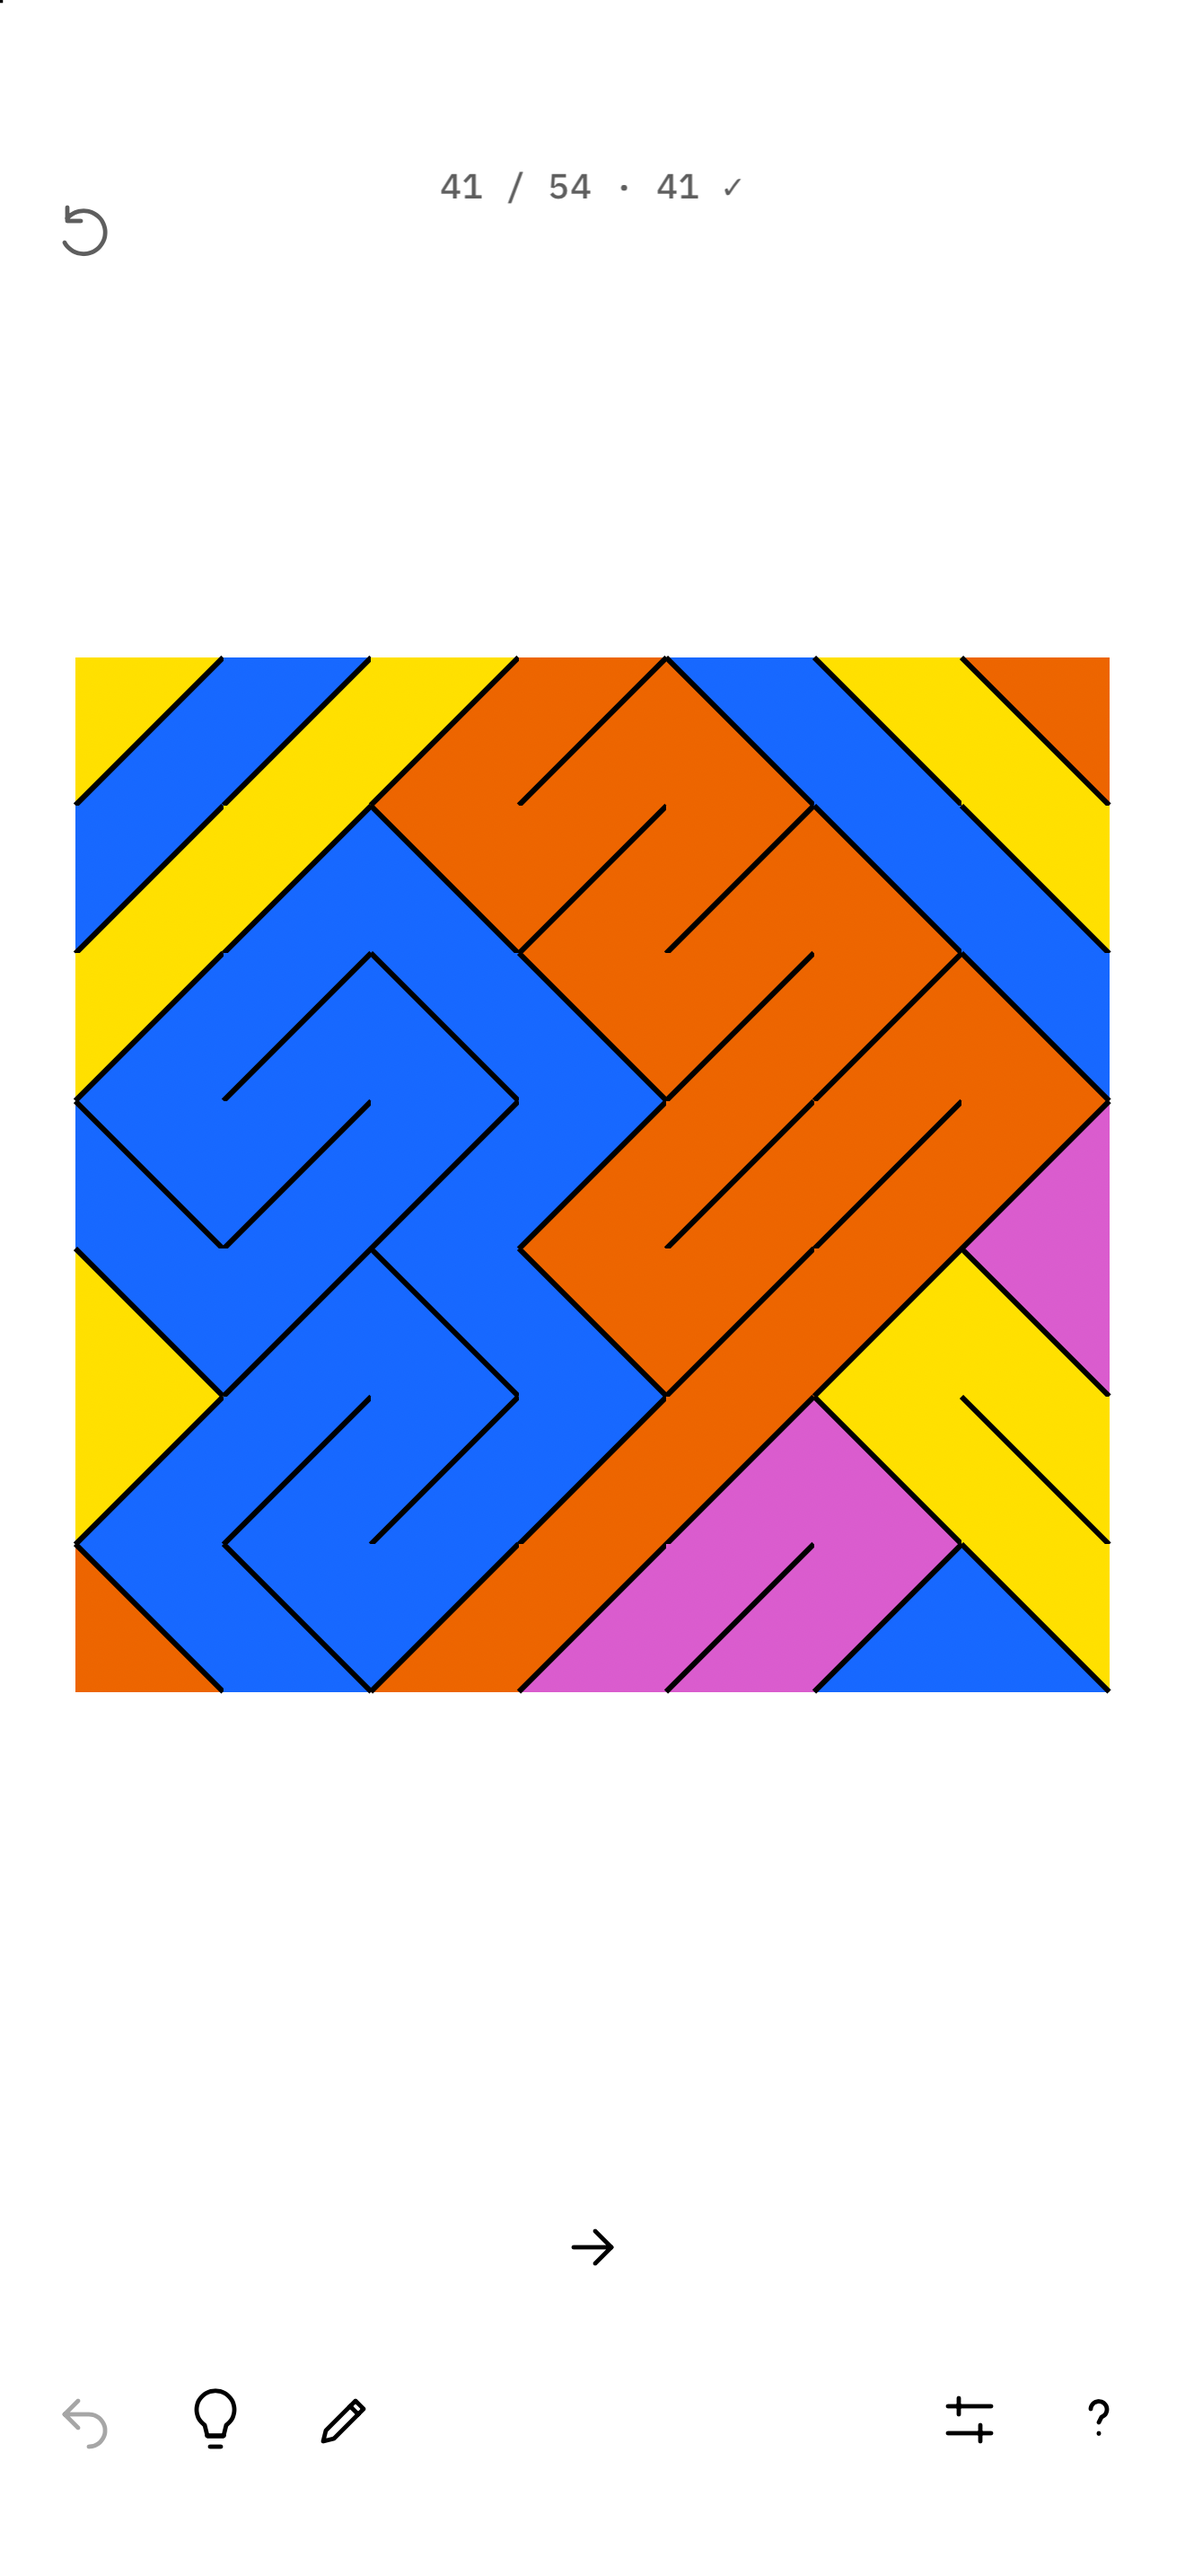
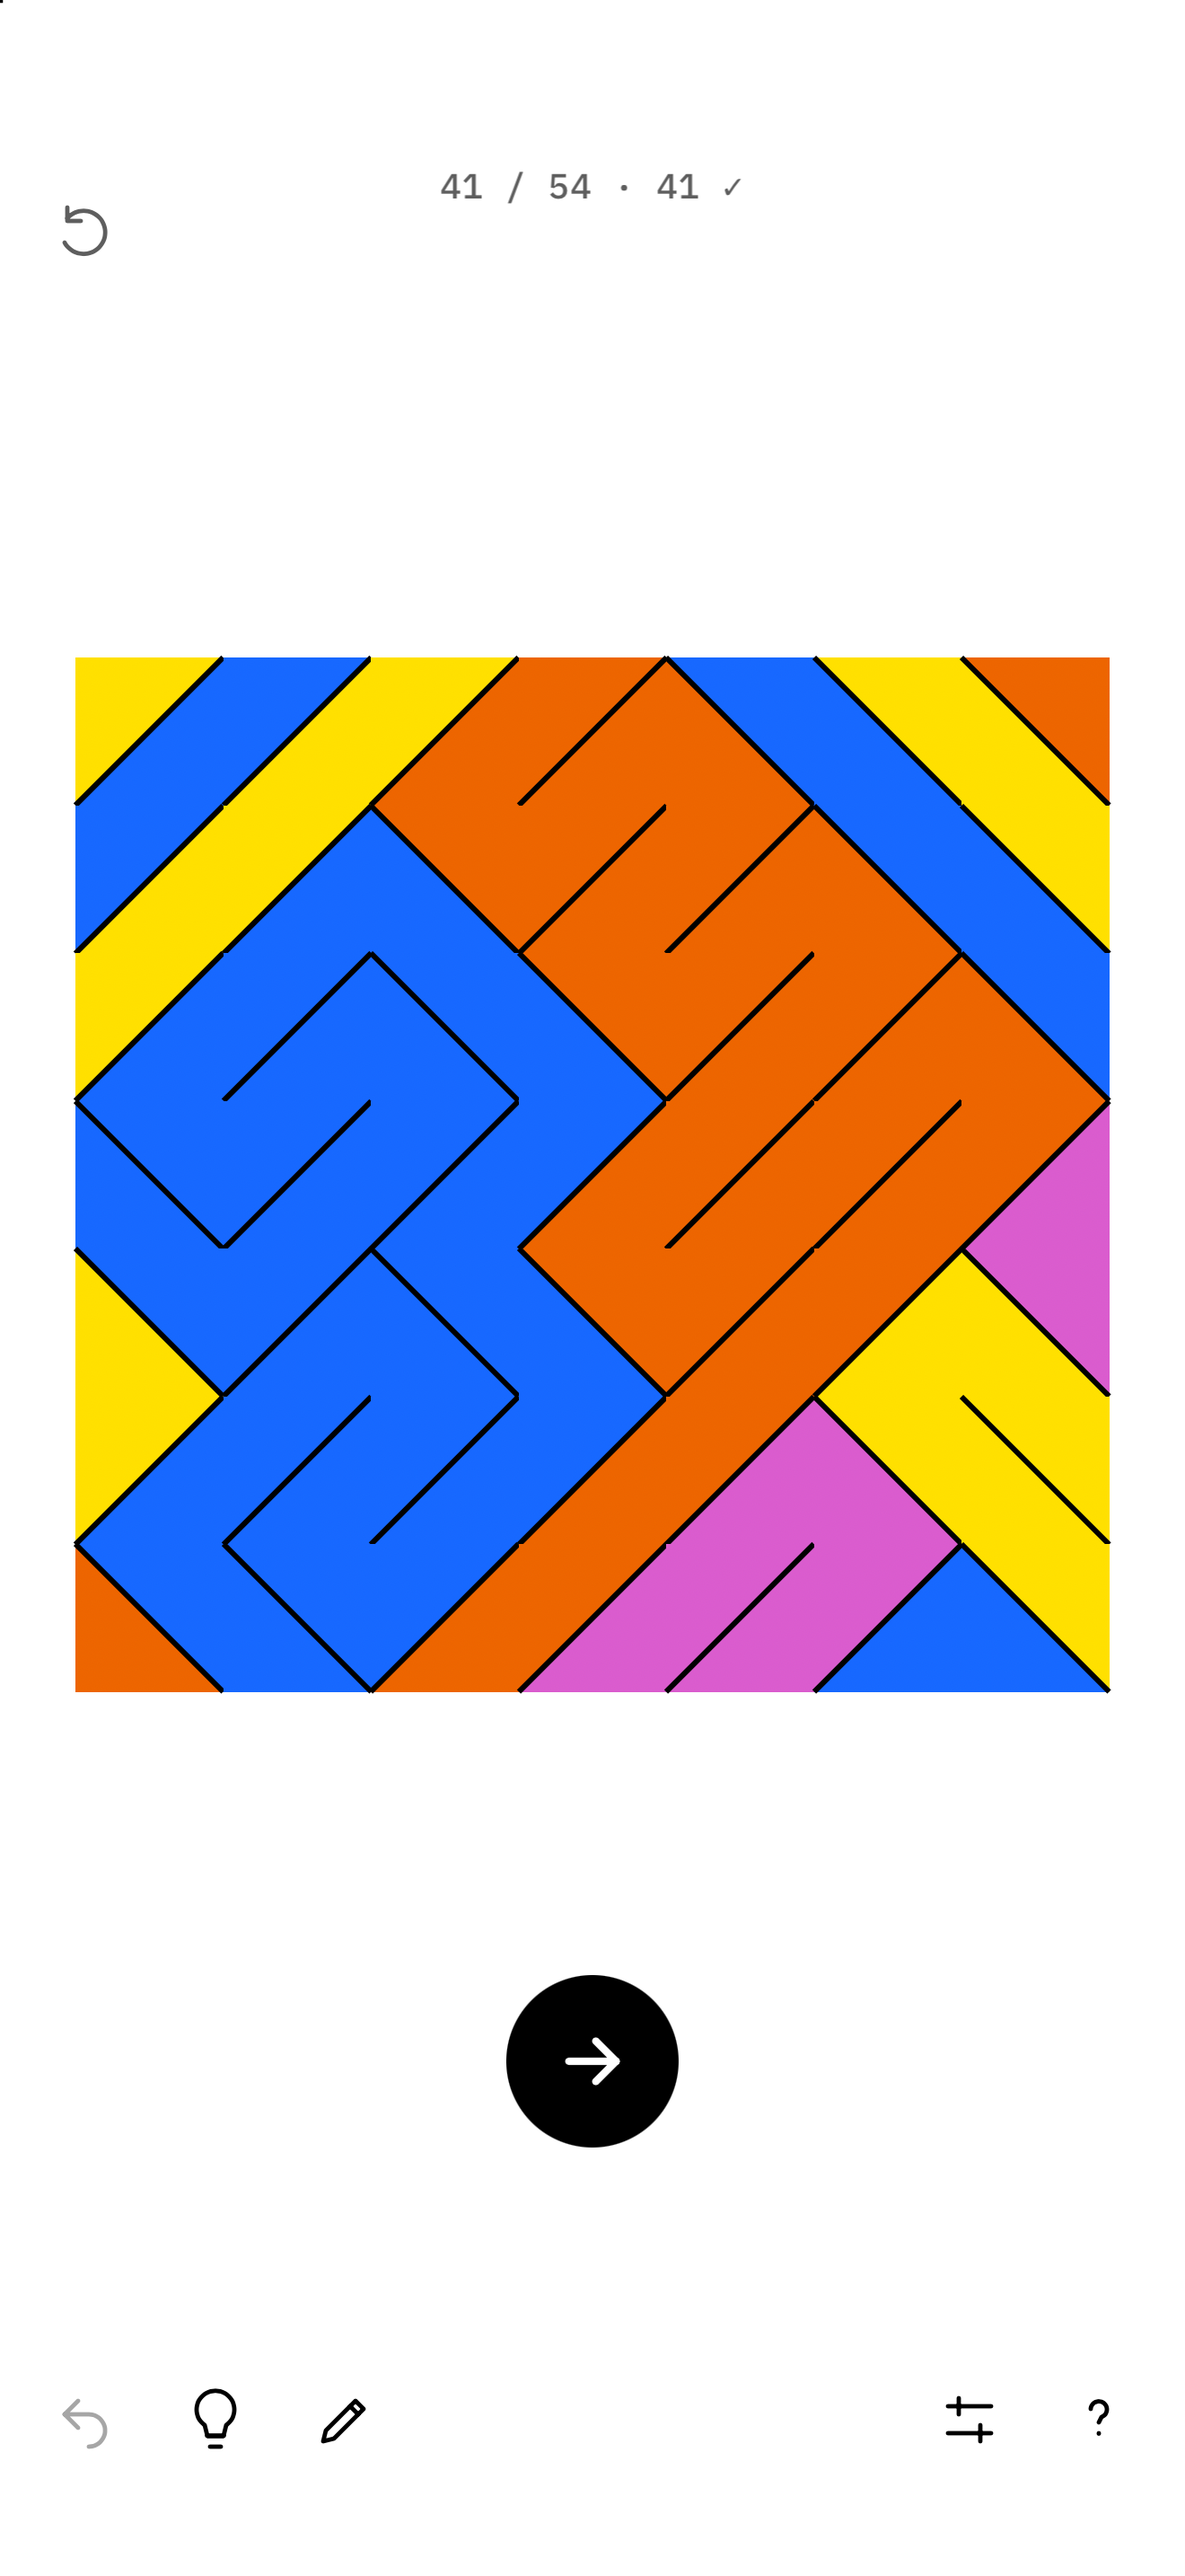
1.0.1 store copy: approved What's New and solved shots with the continue disc

Changed region(s): [[0.4038, 0.7448, 0.5902, 0.8379]]

diff --git a/app/docs/RELEASE.md b/app/docs/RELEASE.md
@@ -162,13 +162,27 @@ Capacitor 8.5.3 source, not tapped. **Not run:** the unfolded Duo poses
 (folding needs a click in Device Hub), an Android emulator (the Android
 WebView is the Chromium checked above), a phone.
 
-What's New, **draft for Luke's approval** (then into
-`app-store/metadata/en-US/release_notes.txt` and the Play release notes):
+What's New, **approved by Luke 2026-11-18**, in
+`app-store/metadata/en-US/release_notes.txt` and
+`app-store/google-play/en-US/release_notes.txt`:
 
 > Settings are grouped under headings, and Mode is now called Rules. Press
 > Hint twice to fix a wrong diagonal. After a solve, the arrow takes you to
 > the next board, and the board fills the whole screen on iPhone Duo.
 
-Still owed before signing: a sign script pinned to the merged commit (copy
-`~/workspace/play-builds-20261112/sign/slant-1.0.0-1.sh`), then the unfolded Duo
-poses and a phone run.
+Store screenshots retaken 2026-11-18 from Debug builds of the merged code
+with `scripts/capture-shots.sh` on new simulators "Store iPhone 6.9
+20261118" (iPhone 17 Pro Max) and "Store iPad 13 20261118" (iPad Pro 13"
+M5), iOS 27.2: only `02-solved.png` and `02-solved-ipad.png` changed (the
+continue disc); the in-progress, free-draw and how-to-play shots are
+pixel-identical to 1.0.0's.
+
+Sign script: `~/workspace/release-1.0.1-20261118/sign/slant-1.0.1-2.sh` (run in Terminal.app on
+napoleon). It builds from a clean clone at the main commit that merges
+these store files, and refuses unless every build input under `app/`
+(all but docs, store copy and capture scripts) matches the 1.0.1 merge
+`6698f44`. It signs Android with the existing release key, stages the AAB
+and notes in `~/workspace/play-uploads/to-upload/`, then archives, checks,
+validates and uploads the iOS build to App Store Connect. Nothing is
+attached to a version or submitted. The App Store screenshots above go up
+with the 1.0.1 version, once its build is processed.
